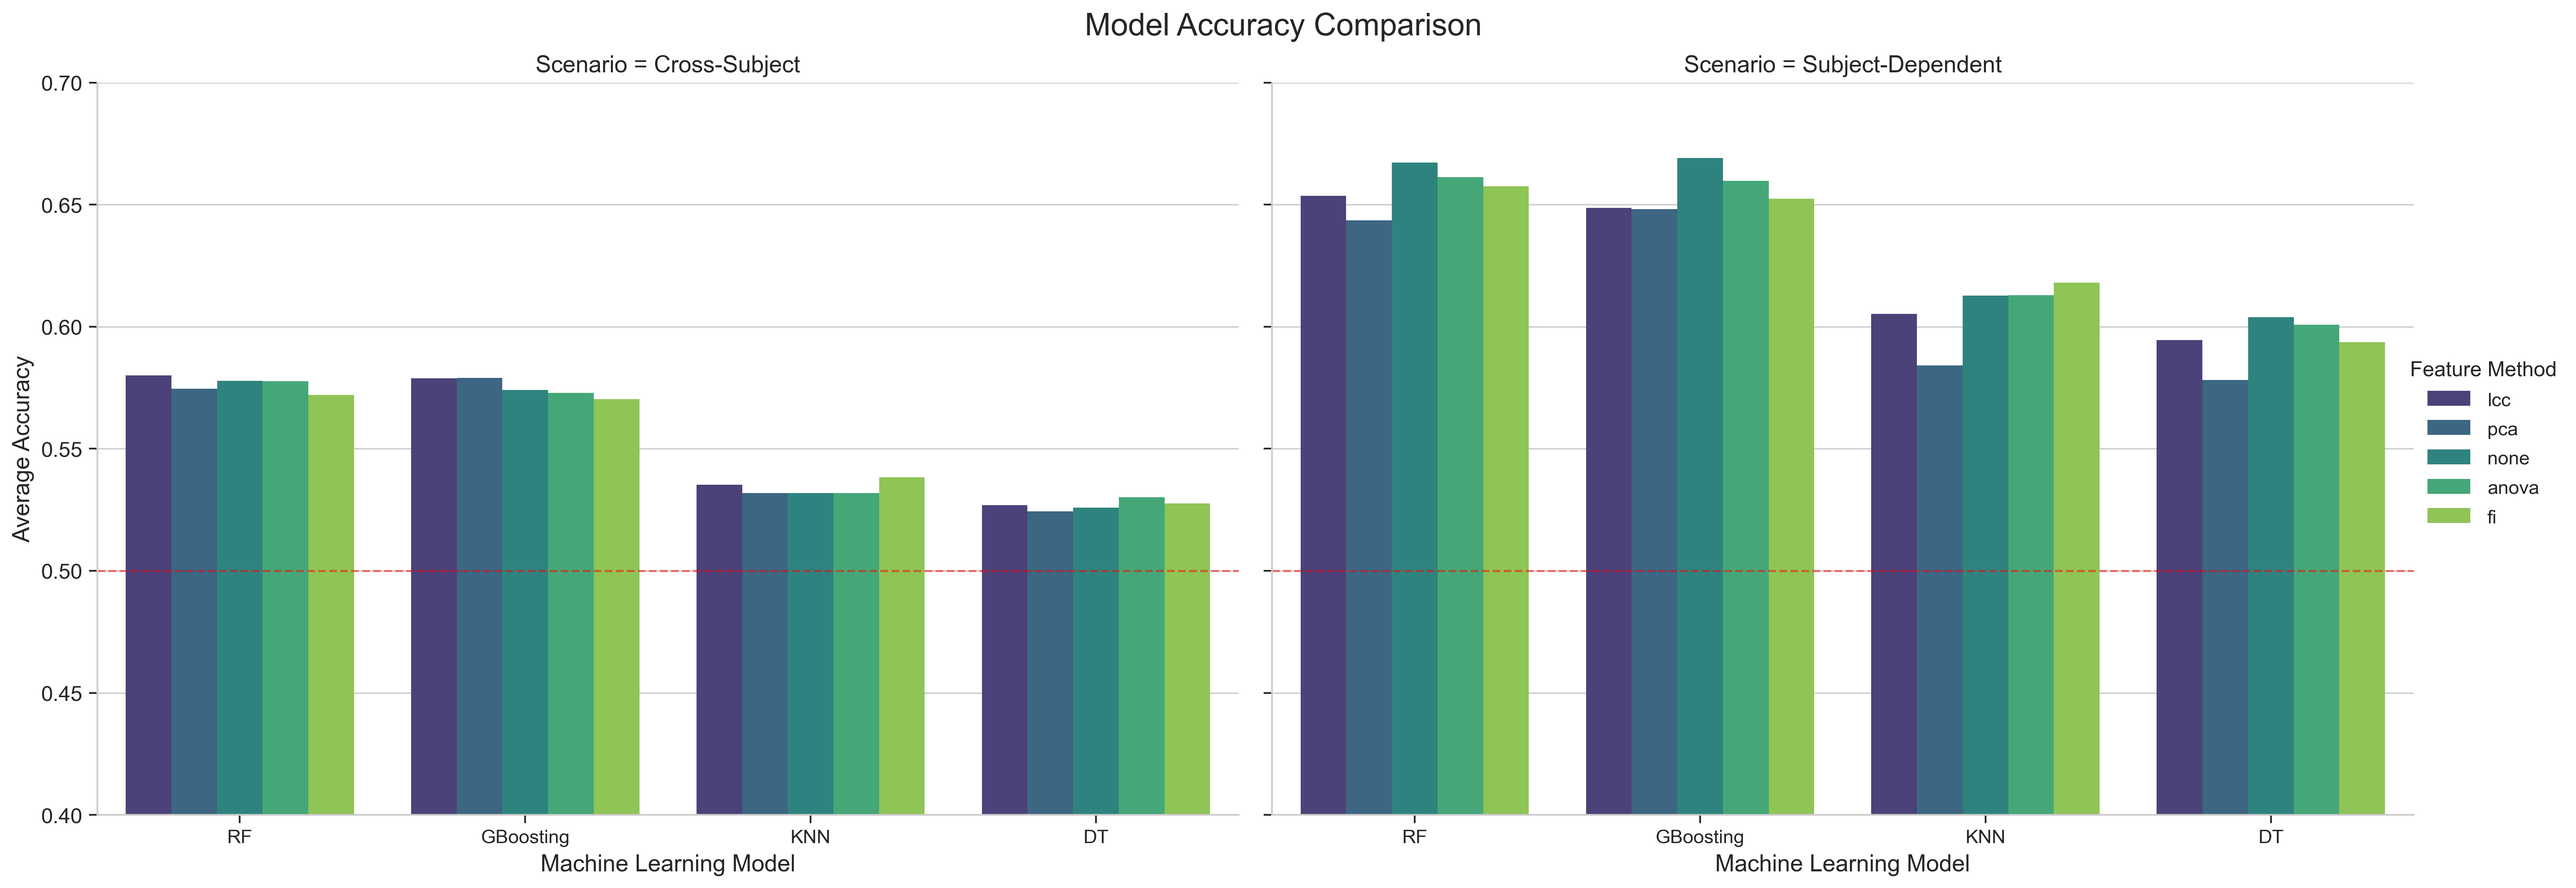
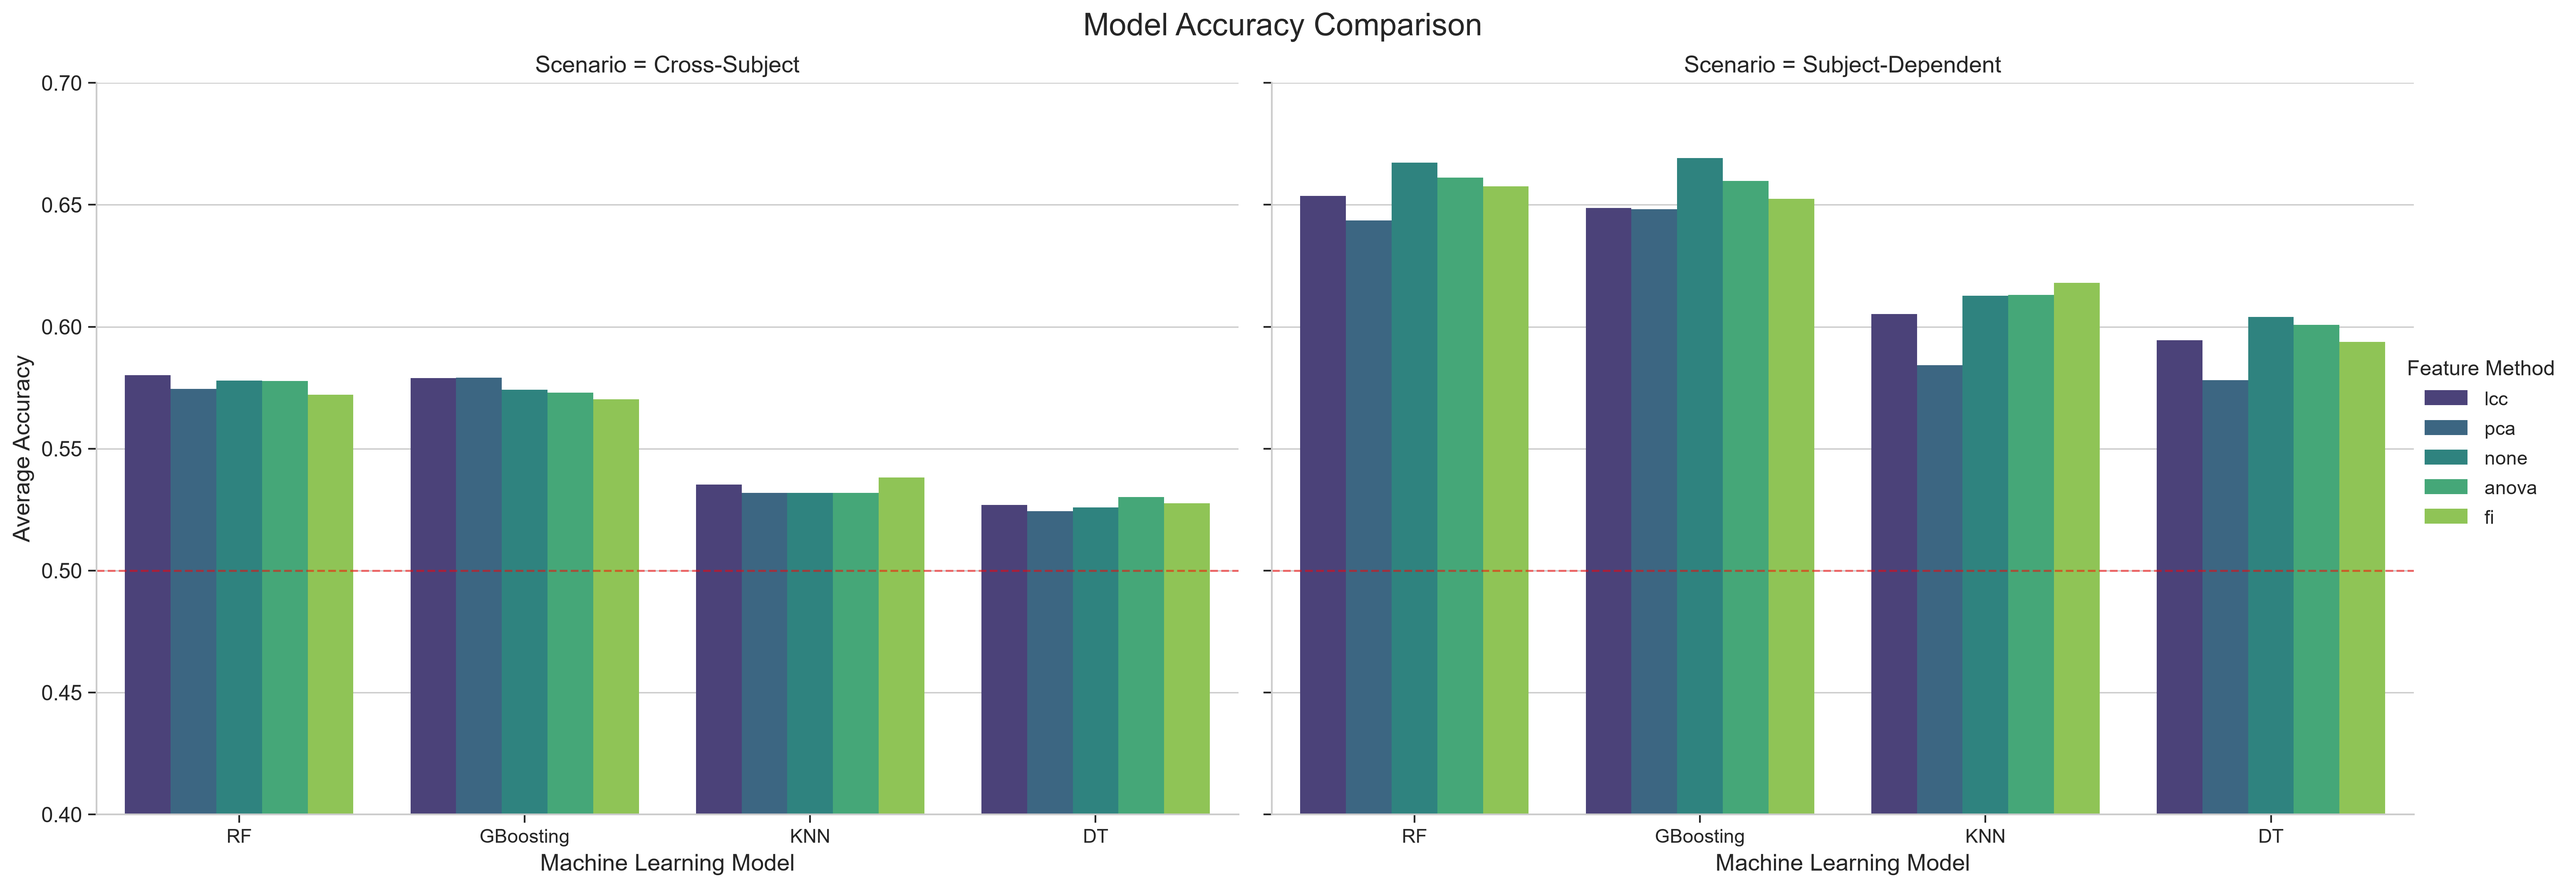
updated confusion matrix

diff --git a/model_training.py b/model_training.py
@@ -168,7 +168,8 @@ def evaluate_single_subject(i, test_subject, subject_names, all_subjects_data):
             })
             
             # save matrix for visualization later
-            if model_name == 'KNN' and method == 'fi':
+            # GBoosting + none is the top subject-dependent config (66.9%)
+            if model_name == 'GBoosting' and method == 'none':
                 matrix = confusion_matrix(y_test_dep, predictions_dep)
                 saved_matrices[f"{test_subject}_dep"] = matrix
             
@@ -204,7 +205,8 @@ def evaluate_single_subject(i, test_subject, subject_names, all_subjects_data):
             })
             
             # save matrix for visualization later
-            if model_name == 'GBoosting' and method == 'pca':
+            # RF + LCC is the top cross-subject config (58.0%)
+            if model_name == 'RF' and method == 'lcc':
                 matrix = confusion_matrix(y_test_cross, predictions_cross)
                 saved_matrices[f"{test_subject}_cross"] = matrix
                 

diff --git a/visualization.py b/visualization.py
@@ -104,7 +104,7 @@ def draw_confusion_matrices():
             xticklabels=['Unfocused', 'Focused'], yticklabels=['Unfocused', 'Focused'],
             ax=ax1
         )
-        ax1.set_title('Subject-Dependent (KNN + Feature Importance)', pad=15)
+        ax1.set_title('Subject-Dependent (GBoosting + All Features)', pad=15)
         ax1.set_ylabel('What the person was actually doing')
         ax1.set_xlabel('What the AI guessed')
         
@@ -117,7 +117,7 @@ def draw_confusion_matrices():
             xticklabels=['Unfocused', 'Focused'], yticklabels=['Unfocused', 'Focused'],
             ax=ax2
         )
-        ax2.set_title('Cross-Subject (GBoosting + PCA)', pad=15)
+        ax2.set_title('Cross-Subject (RF + LCC)', pad=15)
         ax2.set_ylabel('What the person was actually doing')
         ax2.set_xlabel('What the AI guessed')
     

diff --git a/report.tex b/report.tex
@@ -129,7 +129,7 @@ Performance improved substantially in the personalized scenario. The top-perform
 \begin{figure}[H]
     \centering
     \includegraphics[width=0.85\textwidth]{results/figures/confusion_matrix.png}
-    \caption{Aggregated confusion matrices across all 20 subjects for KNN+FI (subject-dependent) and GBoosting+PCA (cross-subject).}
+    \caption{Aggregated confusion matrices across all 20 subjects for the top-performing configuration in each scenario: GBoosting with all 96 features (subject-dependent, 66.9\%) and Random Forest with LCC-selected features (cross-subject, 58.0\%).}
 \end{figure}
 
 \section{Limitations and Future Work}
